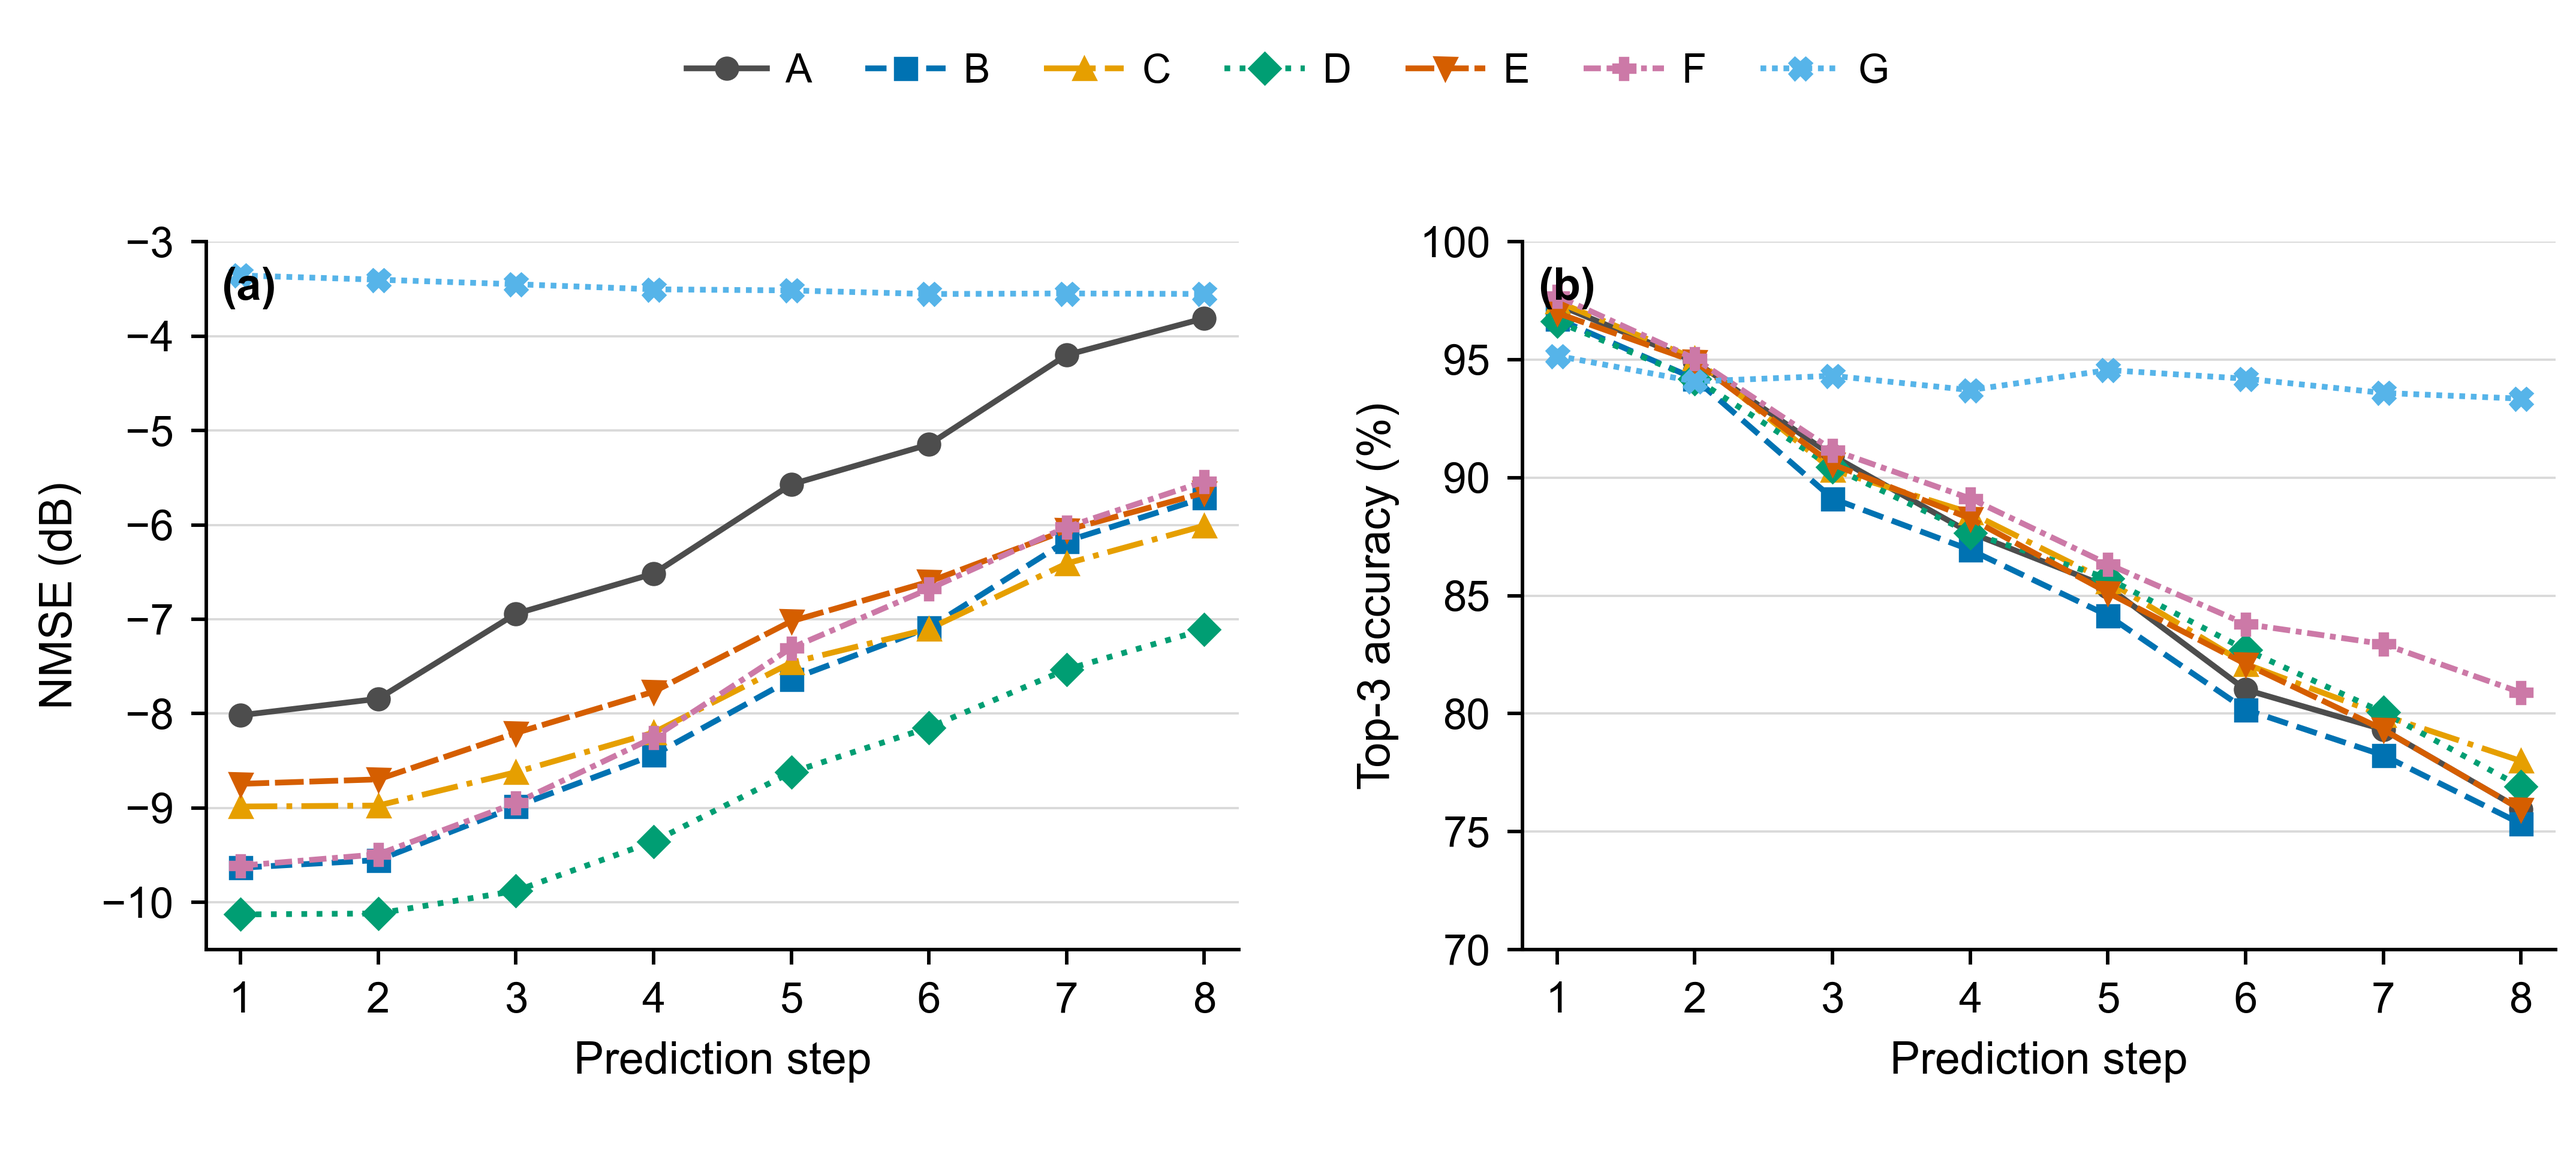
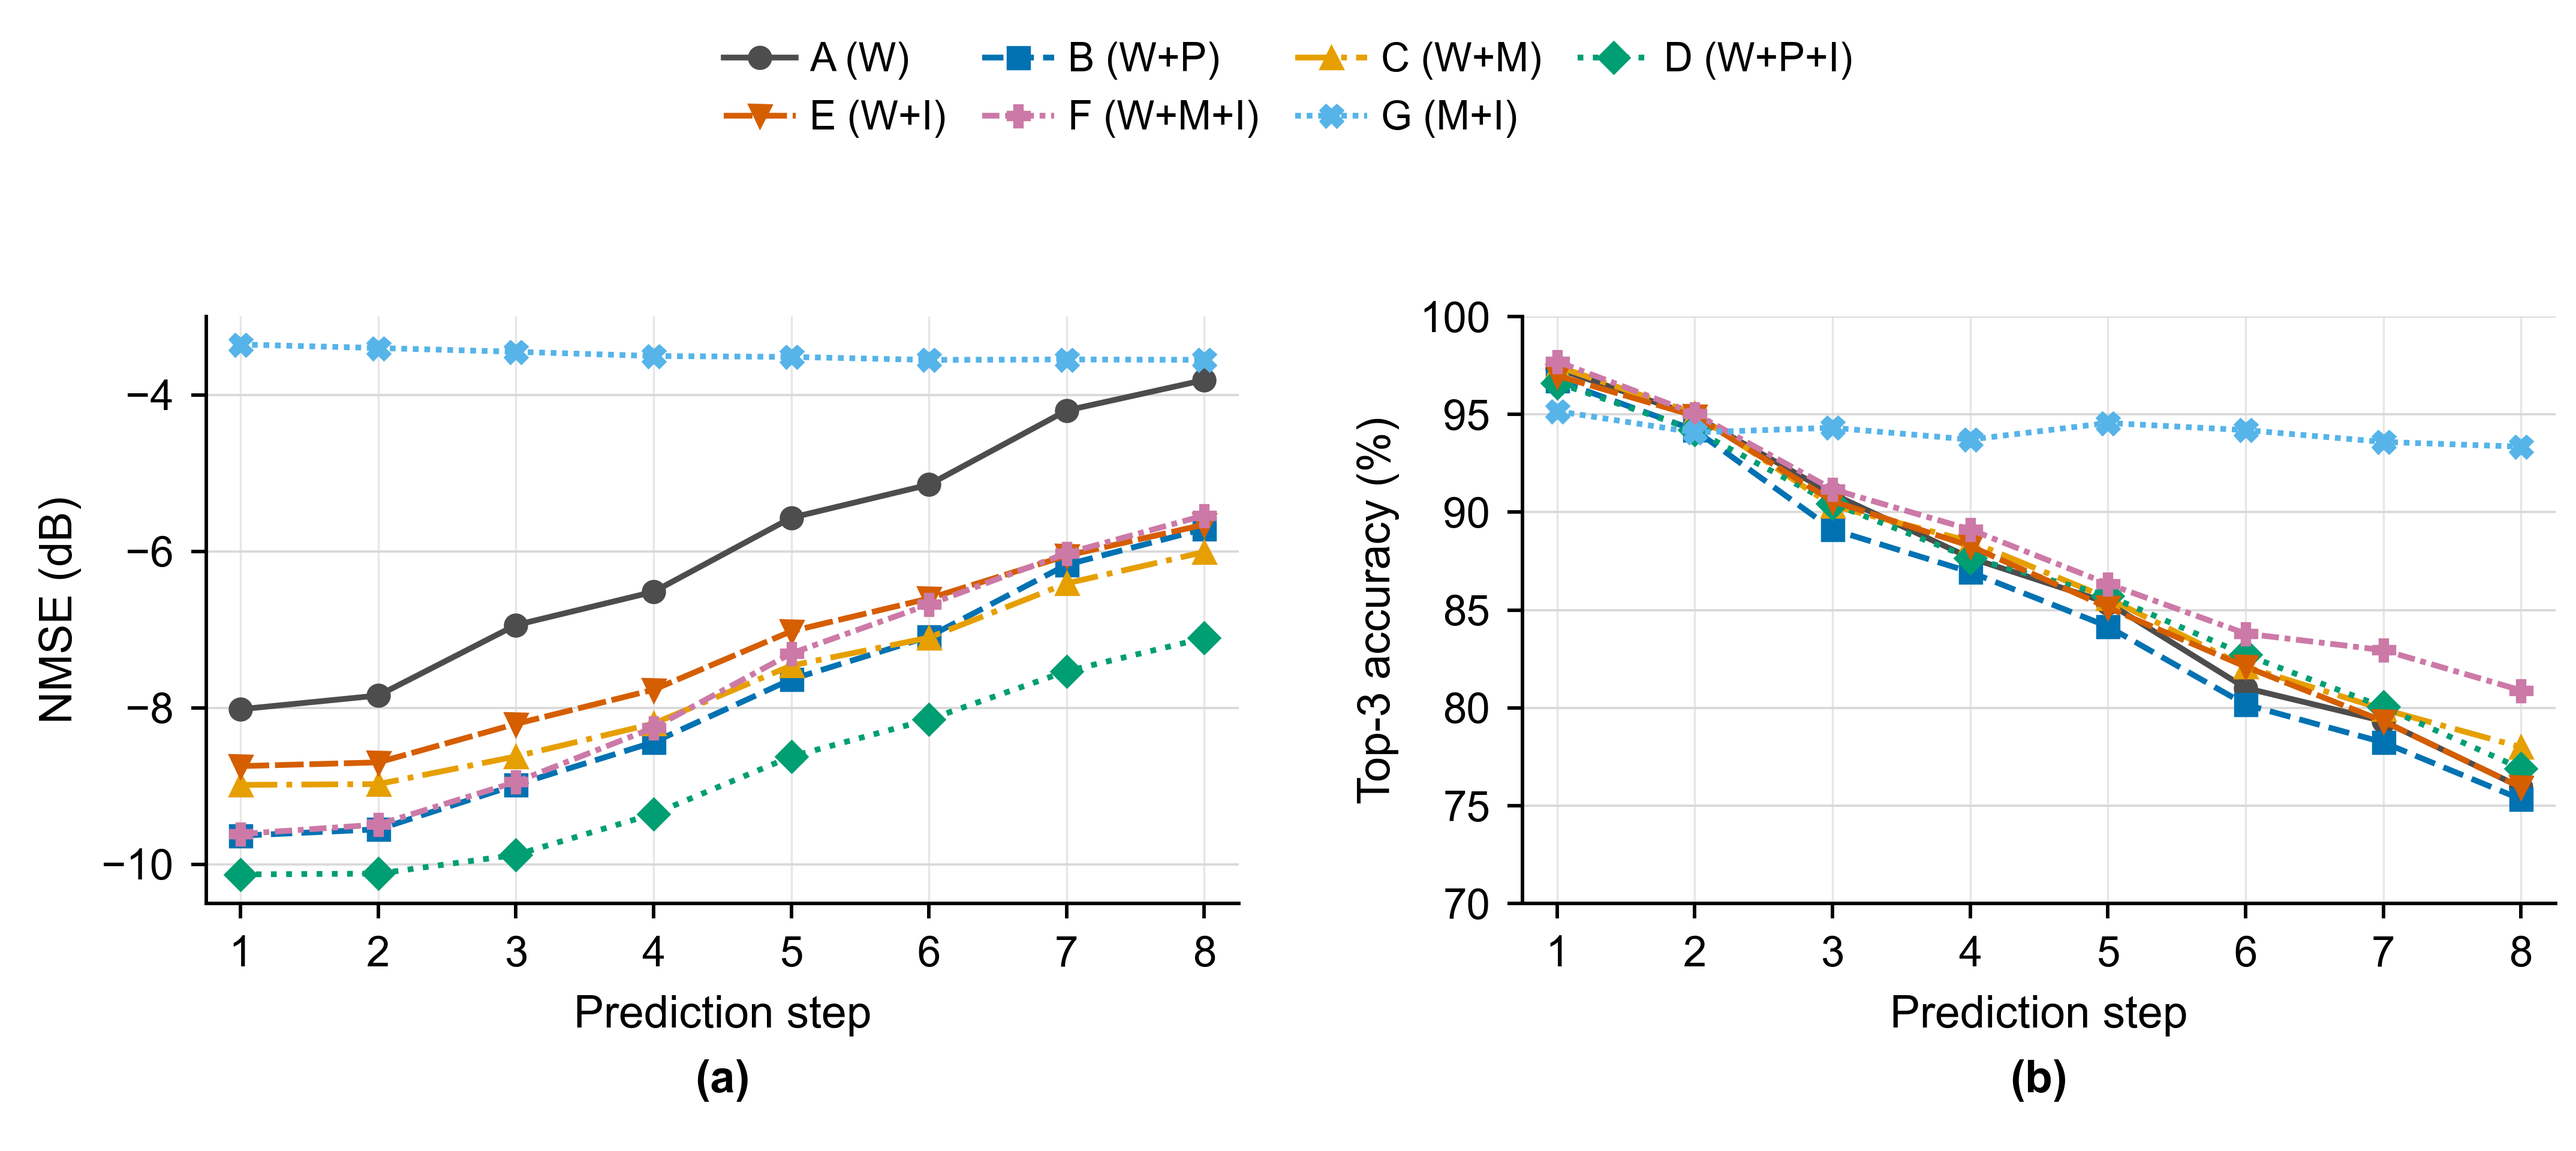
Refine IEEE figure layout and legends

diff --git a/reproducibility/chapter4_figures/plot_ieee_figures.py b/reproducibility/chapter4_figures/plot_ieee_figures.py
@@ -40,6 +40,16 @@ LINE_STYLES = {
     "F": {"color": "#CC79A7", "marker": "P", "linestyle": (0, (3, 1, 1, 1))},
     "G": {"color": "#56B4E9", "marker": "X", "linestyle": (0, (1, 1))},
 }
+MODALITY_LABELS = {
+    "A": "A (W)",
+    "B": "B (W+P)",
+    "C": "C (W+M)",
+    "D": "D (W+P+I)",
+    "E": "E (W+I)",
+    "F": "F (W+M+I)",
+    "G": "G (M+I)",
+}
+
 
 
 def parse_args() -> argparse.Namespace:
@@ -180,10 +190,13 @@ def configure_ieee_style() -> None:
     )
 
 
-def style_axis(axis: plt.Axes) -> None:
+def style_axis(axis: plt.Axes, vertical_grid: bool = False) -> None:
     axis.set_axisbelow(True)
     axis.yaxis.grid(True, color="#D9D9D9", linewidth=0.45, linestyle="-")
-    axis.xaxis.grid(False)
+    if vertical_grid:
+        axis.xaxis.grid(True, color="#E6E6E6", linewidth=0.4, linestyle="-")
+    else:
+        axis.xaxis.grid(False)
     axis.spines["top"].set_visible(False)
     axis.spines["right"].set_visible(False)
     axis.tick_params(width=0.7, length=3.0)
@@ -191,11 +204,11 @@ def style_axis(axis: plt.Axes) -> None:
 
 def panel_label(axis: plt.Axes, label: str) -> None:
     axis.text(
-        0.015,
-        0.965,
+        0.5,
+        -0.265,
         label,
         transform=axis.transAxes,
-        ha="left",
+        ha="center",
         va="top",
         fontsize=9,
         fontweight="bold",
@@ -222,11 +235,11 @@ def save_figure(fig: plt.Figure, output_dir: Path, stem: str, dpi: int = 600) ->
 
 def figure1(data: dict[str, Any], output_dir: Path) -> None:
     fig, axes = plt.subplots(1, 2, figsize=(7.16, 3.0))
-    fig.subplots_adjust(left=0.080, right=0.992, bottom=0.185, top=0.785, wspace=0.285)
+    fig.subplots_adjust(left=0.080, right=0.992, bottom=0.225, top=0.785, wspace=0.285)
     x = np.arange(len(VARIANTS), dtype=np.float64)
 
     csi = np.asarray([data["direct"]["csi"][variant]["nmse_db"] for variant in VARIANTS])
-    colors = ["#7F7F7F" if v == "A" else "#005A9C" if v == "D" else "#9ECAE1" for v in VARIANTS]
+    colors = [LINE_STYLES[variant]["color"] for variant in VARIANTS]
     bars = axes[0].bar(x, csi, width=0.66, color=colors, edgecolor="black", linewidth=0.5)
     axes[0].set_xlim(-0.6, 6.6)
     axes[0].set_ylim(-11.0, 0.0)
@@ -253,7 +266,7 @@ def figure1(data: dict[str, Any], output_dir: Path) -> None:
         ("Top-1", np.asarray([beam[v]["top1_pct"] for v in VARIANTS]), "#0072B2", None),
         ("Top-3", np.asarray([beam[v]["top3_pct"] for v in VARIANTS]), "#E69F00", "///"),
         (
-            "Normalized gain",
+            "Normalized beam gain",
             np.asarray([beam[v]["normalized_gain_pct"] for v in VARIANTS]),
             "#009E73",
             "xx",
@@ -293,7 +306,7 @@ def figure1(data: dict[str, Any], output_dir: Path) -> None:
 
 def figure2(data: dict[str, Any], output_dir: Path) -> None:
     fig, axes = plt.subplots(1, 2, figsize=(7.16, 3.2))
-    fig.subplots_adjust(left=0.080, right=0.992, bottom=0.175, top=0.790, wspace=0.275)
+    fig.subplots_adjust(left=0.080, right=0.992, bottom=0.215, top=0.725, wspace=0.275)
     steps = np.arange(1, 9)
 
     for variant in VARIANTS:
@@ -301,7 +314,7 @@ def figure2(data: dict[str, Any], output_dir: Path) -> None:
         axes[0].plot(
             steps,
             data["rollout"]["csi"][variant]["nmse_db"],
-            label=variant,
+            label=MODALITY_LABELS[variant],
             color=style["color"],
             marker=style["marker"],
             linestyle=style["linestyle"],
@@ -315,7 +328,7 @@ def figure2(data: dict[str, Any], output_dir: Path) -> None:
     axes[0].set_ylim(-10.5, -3.0)
     axes[0].set_xlabel("Prediction step")
     axes[0].set_ylabel("NMSE (dB)")
-    style_axis(axes[0])
+    style_axis(axes[0], vertical_grid=True)
     panel_label(axes[0], "(a)")
 
     beam_values: list[float] = []
@@ -326,7 +339,7 @@ def figure2(data: dict[str, Any], output_dir: Path) -> None:
         axes[1].plot(
             steps,
             values,
-            label=variant,
+            label=MODALITY_LABELS[variant],
             color=style["color"],
             marker=style["marker"],
             linestyle=style["linestyle"],
@@ -342,20 +355,25 @@ def figure2(data: dict[str, Any], output_dir: Path) -> None:
     axes[1].set_yticks(np.arange(lower, 100.1, 5.0))
     axes[1].set_xlabel("Prediction step")
     axes[1].set_ylabel("Top-3 accuracy (%)")
-    style_axis(axes[1])
+    style_axis(axes[1], vertical_grid=True)
     panel_label(axes[1], "(b)")
 
     handles, labels = axes[0].get_legend_handles_labels()
+    # Matplotlib fills multi-row legends column-wise. Reorder the entries so
+    # that the visual reading order is A--D on the first row and E--G below.
+    legend_order = [0, 4, 1, 5, 2, 6, 3]
+    handles = [handles[index] for index in legend_order]
+    labels = [labels[index] for index in legend_order]
     fig.legend(
         handles,
         labels,
         loc="upper center",
-        bbox_to_anchor=(0.5, 0.985),
-        ncol=7,
+        bbox_to_anchor=(0.5, 0.995),
+        ncol=4,
         frameon=False,
-        handlelength=2.0,
-        columnspacing=1.35,
-        handletextpad=0.45,
+        handlelength=1.8,
+        columnspacing=0.9,
+        handletextpad=0.35,
     )
     save_figure(fig, output_dir, "fig2_recursive_comparison")
 
